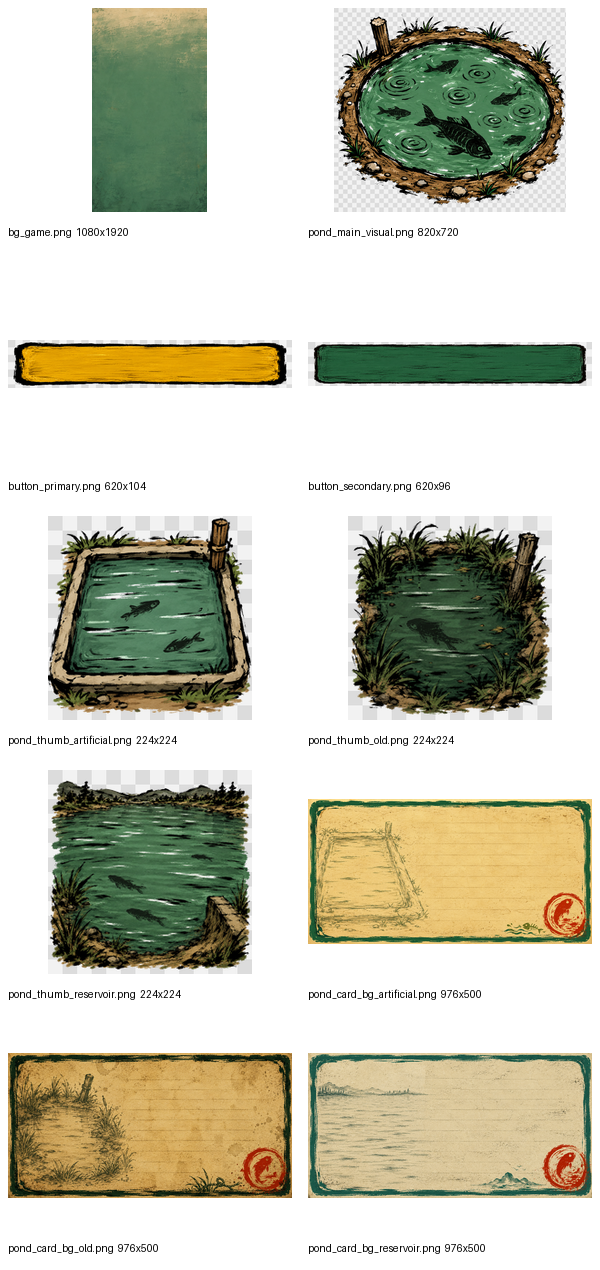
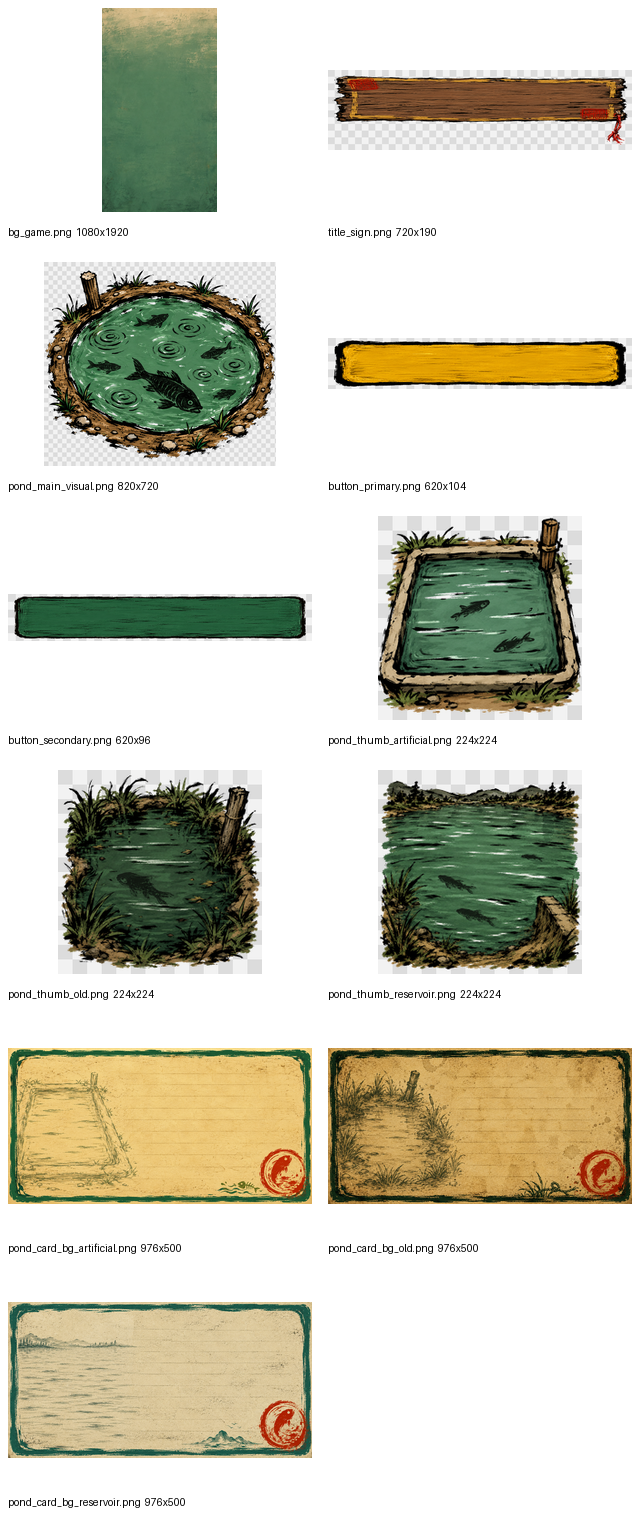
Document art asset placement standards

diff --git a/Design/素材落位与验收标准.md b/Design/素材落位与验收标准.md
@@ -1,0 +1,104 @@
+# 第一批美术素材落位与验收标准
+
+本文档说明第一批 P0 素材的处理流、最终放置位置和验收标准。当前可用处理稿位于 `Design/processed/`，原始下载文件保留在 `Design/` 根目录。
+
+## 目录规则
+
+- `Design/`：原始下载素材、Prompt、清单和验收文档。
+- `Design/processed/`：已裁切、缩放、去白底后的可导入版本。
+- `assets/background/`：全屏背景。
+- `assets/ui/`：标题牌、通用 UI 背景、弹窗、徽章、页面框。
+- `assets/buttons/`：按钮背景。
+- `assets/ponds/`：鱼塘缩略图、鱼塘卡片背景、已承包鱼塘视觉。
+- `assets/effects/`：鱼获、结算、下网方式等效果插图。
+- `assets/fish/`：鱼种图标。
+
+正式接入 Godot 时，从 `Design/processed/` 复制到下表的 `最终放置位置`。不要直接引用 `Design/` 根目录原始图。
+
+## 第一批已处理素材
+
+| 素材 | 处理稿位置 | 最终放置位置 | 目标尺寸 | 透明底 | 用途 |
+| --- | --- | --- | --- | --- | --- |
+| `bg_game.png` | `Design/processed/bg_game.png` | `assets/background/bg_game.png` | 1080 x 1920 | 否 | 全局游戏背景 |
+| `title_sign.png` | `Design/processed/title_sign.png` | `assets/ui/title_sign.png` | 720 x 190 | 是 | 主页标题木牌 |
+| `pond_main_visual.png` | `Design/processed/pond_main_visual.png` | `assets/ui/pond_main_visual.png` | 820 x 720 | 是 | 主页中央鱼塘主视觉 |
+| `button_primary.png` | `Design/processed/button_primary.png` | `assets/buttons/button_primary.png` | 620 x 104 | 是 | 主操作按钮背景 |
+| `button_secondary.png` | `Design/processed/button_secondary.png` | `assets/buttons/button_secondary.png` | 620 x 96 | 是 | 次操作按钮背景 |
+| `pond_thumb_artificial.png` | `Design/processed/pond_thumb_artificial.png` | `assets/ponds/pond_thumb_artificial.png` | 224 x 224 | 是 | 人工塘缩略图 |
+| `pond_thumb_old.png` | `Design/processed/pond_thumb_old.png` | `assets/ponds/pond_thumb_old.png` | 224 x 224 | 是 | 老塘缩略图 |
+| `pond_thumb_reservoir.png` | `Design/processed/pond_thumb_reservoir.png` | `assets/ponds/pond_thumb_reservoir.png` | 224 x 224 | 是 | 水库塘缩略图 |
+| `pond_card_bg_artificial.png` | `Design/processed/pond_card_bg_artificial.png` | `assets/ponds/pond_card_bg_artificial.png` | 976 x 500 | 否 | 人工塘卡片背景 |
+| `pond_card_bg_old.png` | `Design/processed/pond_card_bg_old.png` | `assets/ponds/pond_card_bg_old.png` | 976 x 500 | 否 | 老塘卡片背景 |
+| `pond_card_bg_reservoir.png` | `Design/processed/pond_card_bg_reservoir.png` | `assets/ponds/pond_card_bg_reservoir.png` | 976 x 500 | 否 | 水库塘卡片背景 |
+
+## 后续素材落位
+
+| 素材 | 最终放置位置 | 目标尺寸 | 透明底 | 验收重点 |
+| --- | --- | --- | --- | --- |
+| `contract_dialog_bg.png` | `assets/ui/contract_dialog_bg.png` | 900 x 600 | 否 | 可九宫格拉伸，中心区域适合文字覆盖 |
+| `balance_highlight_bg.png` | `assets/ui/balance_highlight_bg.png` | 800 x 56 | 否 | 横条边缘清晰，文字区域干净 |
+| `status_box_bg.png` | `assets/ui/status_box_bg.png` | 800 x 100 | 否 | 状态文字区留白足够 |
+| `button_danger_confirm.png` | `assets/buttons/button_danger_confirm.png` | 440 x 96 | 是 | 红色危险操作，透明底，无文字 |
+| `page_frame_bg.png` | `assets/ui/page_frame_bg.png` | 976 x 自适应 | 否 | 可九宫格拉伸，边框不变形 |
+| `transfer_dialog_bg.png` | `assets/ui/transfer_dialog_bg.png` | 900 x 自适应 | 否 | 可九宫格拉伸，内容区干净 |
+| `offer_price_badge.png` | `assets/ui/offer_price_badge.png` | 800 x 70 | 否 | 金额高亮区清楚 |
+| `buyer_avatar.png` | `assets/decorations/buyer_avatar.png` | 190 x 190 | 是 | 头像主体完整，边缘无白底 |
+| `speech_bubble.png` | `assets/ui/speech_bubble.png` | 210 x 自适应 | 是 | 气泡可拉伸，尾巴方向明确 |
+| `button_accept.png` | `assets/buttons/button_accept.png` | 440 x 96 | 是 | 接受按钮，透明底，无文字 |
+| `catch_result_visual.png` | `assets/effects/catch_result_visual.png` | 900 x 280 | 是 | 鱼获主体完整，适合弹窗顶部 |
+| `price_badge.png` | `assets/ui/price_badge.png` | 230 x 66 | 是 | 价格文字覆盖后可读 |
+| `pond_action_button.png` | `assets/buttons/pond_action_button.png` | 700 x 82 | 是 | 卡片内按钮，无文字 |
+| `inspection_card_observe.png` | `assets/ui/inspection_card_observe.png` | 976 x 190 | 否 | 可九宫格拉伸，文字区域干净 |
+| `inspection_card_fishfinder.png` | `assets/ui/inspection_card_fishfinder.png` | 976 x 190 | 否 | 可九宫格拉伸，文字区域干净 |
+| `inspection_card_master.png` | `assets/ui/inspection_card_master.png` | 976 x 190 | 否 | 可九宫格拉伸，文字区域干净 |
+| `inspection_cost_badge.png` | `assets/ui/inspection_cost_badge.png` | 自适应 | 是 | 费用标签可读，不遮挡文字 |
+| `inspection_used_badge.png` | `assets/ui/inspection_used_badge.png` | 80 x 44 | 是 | “已验”覆盖清晰 |
+| `owned_pond_card_bg.png` | `assets/ui/owned_pond_card_bg.png` | 976 x 自适应 | 否 | 可九宫格拉伸，账本内容区干净 |
+| `owned_pond_visual.png` | `assets/ponds/owned_pond_visual.png` | 976 x 200 | 是 | 水面主体完整，横向适配 |
+| `action_card_bg.png` | `assets/ui/action_card_bg.png` | 976 x 自适应 | 否 | 操作卡可九宫格拉伸 |
+| `net_option_card_bg.png` | `assets/ui/net_option_card_bg.png` | 976 x 250 | 否 | 下网卡可九宫格拉伸 |
+| `net_method_low.png` | `assets/effects/net_method_low.png` | 150 x 150 | 是 | 方法图标边缘干净 |
+| `net_method_standard.png` | `assets/effects/net_method_standard.png` | 150 x 150 | 是 | 方法图标边缘干净 |
+| `net_method_full.png` | `assets/effects/net_method_full.png` | 150 x 150 | 是 | 方法图标边缘干净 |
+| `settlement_visual.png` | `assets/effects/settlement_visual.png` | 976 x 250 | 是 | 结算主体完整，适合卡片顶部 |
+| `settlement_card_bg.png` | `assets/ui/settlement_card_bg.png` | 976 x 自适应 | 否 | 账单区可九宫格拉伸 |
+| `record_card_bg.png` | `assets/ui/record_card_bg.png` | 976 x 自适应 | 否 | 历史卡可九宫格拉伸 |
+| `record_header_bg.png` | `assets/ui/record_header_bg.png` | 976 x 118 | 否 | 记录标题区清楚 |
+| `profit_badge_green.png` | `assets/ui/profit_badge_green.png` | 164 x 62 | 是 | 盈利徽章无白边 |
+| `profit_badge_red.png` | `assets/ui/profit_badge_red.png` | 164 x 62 | 是 | 亏损徽章无白边 |
+| `profit_badge_neutral.png` | `assets/ui/profit_badge_neutral.png` | 164 x 62 | 是 | 打平徽章无白边 |
+| `fish_small.png` | `assets/fish/fish_small.png` | 80 x 48 | 是 | 小尺寸仍可辨认 |
+| `fish_normal.png` | `assets/fish/fish_normal.png` | 120 x 64 | 是 | 鱼体清晰，无文字 |
+| `fish_big.png` | `assets/fish/fish_big.png` | 180 x 80 | 是 | 鱼体完整，不贴边 |
+| `fish_king.png` | `assets/fish/fish_king.png` | 280 x 140 | 是 | 鱼王有辨识度，不贴边 |
+
+## 通用验收标准
+
+- 尺寸必须与目标尺寸一致；允许 “自适应” 的素材必须至少满足表中固定宽度。
+- 需要透明底的素材，PNG alpha 通道必须存在，背景不能残留白底、灰边或白色矩形。
+- 不需要透明底的背景、卡片、弹窗素材必须铺满整个画布，不能有多余白边。
+- 所有素材必须无文字、无数字、无水印、无签名，游戏中文字由 Godot 控件覆盖。
+- 主体不能贴边：独立插图四周至少保留 4 到 8 px 安全边。
+- 风格保持粗黑墨线、手绘笔触、乡镇鱼塘生意感；不要变成光滑矢量、3D、写实摄影或过度可爱。
+- 大面积背景绿色接近灰调塘绿 `#4A8264`；深塘绿 `#2F6B4F` 只用于边框、小面积点缀或次按钮。
+- 主按钮保持土金/朱红等高对比焦点色，次按钮保持深塘绿，按钮面必须留空。
+- 用于文字覆盖的区域必须干净，不能有高对比图案穿过主要文本区。
+- 卡片、弹窗、页面框等需要拉伸的素材，边框和角必须适合 NinePatch/NineSlice；拉伸后边框不能明显变粗、变扁或断裂。
+
+## 导入 Godot 前检查
+
+1. 用 `sips -g pixelWidth -g pixelHeight <file>` 检查尺寸。
+2. 用图片预览或 `Design/processed/contact_sheet.png` 检查裁切、透明底和主体完整性。
+3. 复制到 `assets/...` 后打开 Godot，让引擎生成 `.import` 文件；不要手写 `.import` 或 `.uid`。
+4. 接入界面后在 1080 x 1920、720 x 1280、540 x 960 三个尺寸下检查：
+   - 文字不被素材纹理遮挡；
+   - 按钮文字居中且不溢出；
+   - 卡片背景拉伸自然；
+   - 透明底素材没有白边；
+   - 主视觉没有压扁或裁掉关键内容。
+
+## 当前批次备注
+
+- `Design/processed/title_sign.png` 由 `1254 x 1254` 原图裁切成 `720 x 190`，已去白底。
+- `Design/processed/button_primary.png` 和 `Design/processed/button_secondary.png` 为适配控件槽位做过横向按钮压缩，正式接入前应在实际按钮上看文字居中效果。
+- `Design/processed/contact_sheet.png` 仅用于验收预览，不需要放入 `assets/`。

diff --git a/Design/processed/尺寸检查报告.md b/Design/processed/尺寸检查报告.md
@@ -6,15 +6,15 @@
 
 - 原始 PNG 均未达到目标像素尺寸，已在 `Design/processed/` 生成处理版。
 - 处理版保留原文件名，原始文件仍保留在 `Design/` 根目录。
-- `button_primary.png`、`button_secondary.png`、`pond_main_visual.png`、三个 `pond_thumb_*.png` 已处理为透明底。
+- `title_sign.png`、`button_primary.png`、`button_secondary.png`、`pond_main_visual.png`、三个 `pond_thumb_*.png` 已处理为透明底。
 - `bg_game.png`、三个 `pond_card_bg_*.png` 保持不透明矩形，适合作为背景/卡片底图。
-- `title_sign.png` 未在 `Design/` 根目录中找到，本轮无法处理。
 
 ## 尺寸对照
 
 | 文件 | 原始尺寸 | 目标尺寸 | 处理方式 | 结果 |
 | --- | --- | --- | --- | --- |
 | `bg_game.png` | 941 x 1672 | 1080 x 1920 | 等比放大并裁切到 9:16 | 通过 |
+| `title_sign.png` | 1254 x 1254 | 720 x 190 | 裁切横向牌匾、缩放、去白底 | 通过 |
 | `pond_main_visual.png` | 1254 x 1254 | 820 x 720 | 裁切主体、缩放、去白底 | 通过 |
 | `pond_thumb_artificial.png` | 1254 x 1254 | 224 x 224 | 中心裁切、缩放、去白底 | 通过 |
 | `pond_thumb_old.png` | 1254 x 1254 | 224 x 224 | 中心裁切、缩放、去白底 | 通过 |